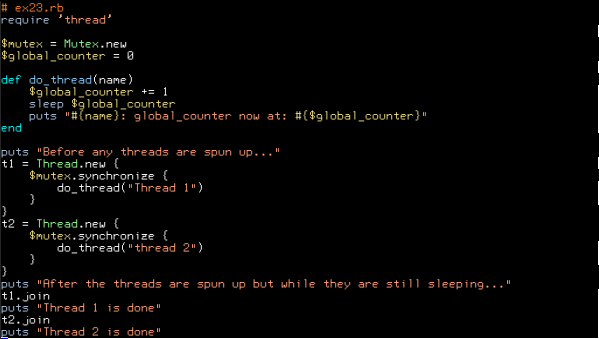
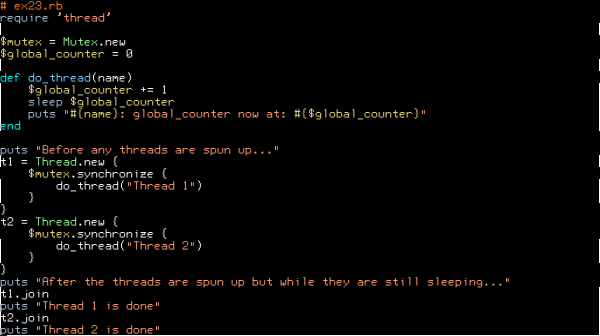
Threading

diff --git a/slides.tex b/slides.tex
@@ -533,11 +533,6 @@
   Ruby has a simple but effective threading API. See the docs for the
   full feature set. Here we will look at a simple example that
   includes a mutex.
-
-  An interesting thing happened when I ran the example. When ran
-  repeatedly, sometimes the second thread actually started first, or
-  at least it gained the lock first. This shows that you cannot depend
-  on threads and mutexes running in any sort of order.
 \end{frame}
 
 \begin{frame}

diff --git a/src/ex14.rb b/src/ex14.rb
@@ -1,10 +1,13 @@
 # ex14.rb
 
 $myhash = {:one => 1, :two => 2}
+another_hash = {:three => 5, :four => 6}
 
-def print_hash(hash: $myhash)
+def print_hash(arg1, hash: $myhash)
+    puts arg1
     p hash
 end
 
-print_hash
-print_hash(hash: {:three => 3, :four => 4})
+print_hash 1
+print_hash(2, hash: {:three => 3, :four => 4})
+print_hash(3, hash: another_hash)

diff --git a/src/ex23.rb b/src/ex23.rb
@@ -18,7 +18,7 @@ t1 = Thread.new {
 }
 t2 = Thread.new {
     $mutex.synchronize {
-        do_thread("thread 2")
+        do_thread("Thread 2")
     }
 }
 puts "After the threads are spun up but while they are still sleeping..."
